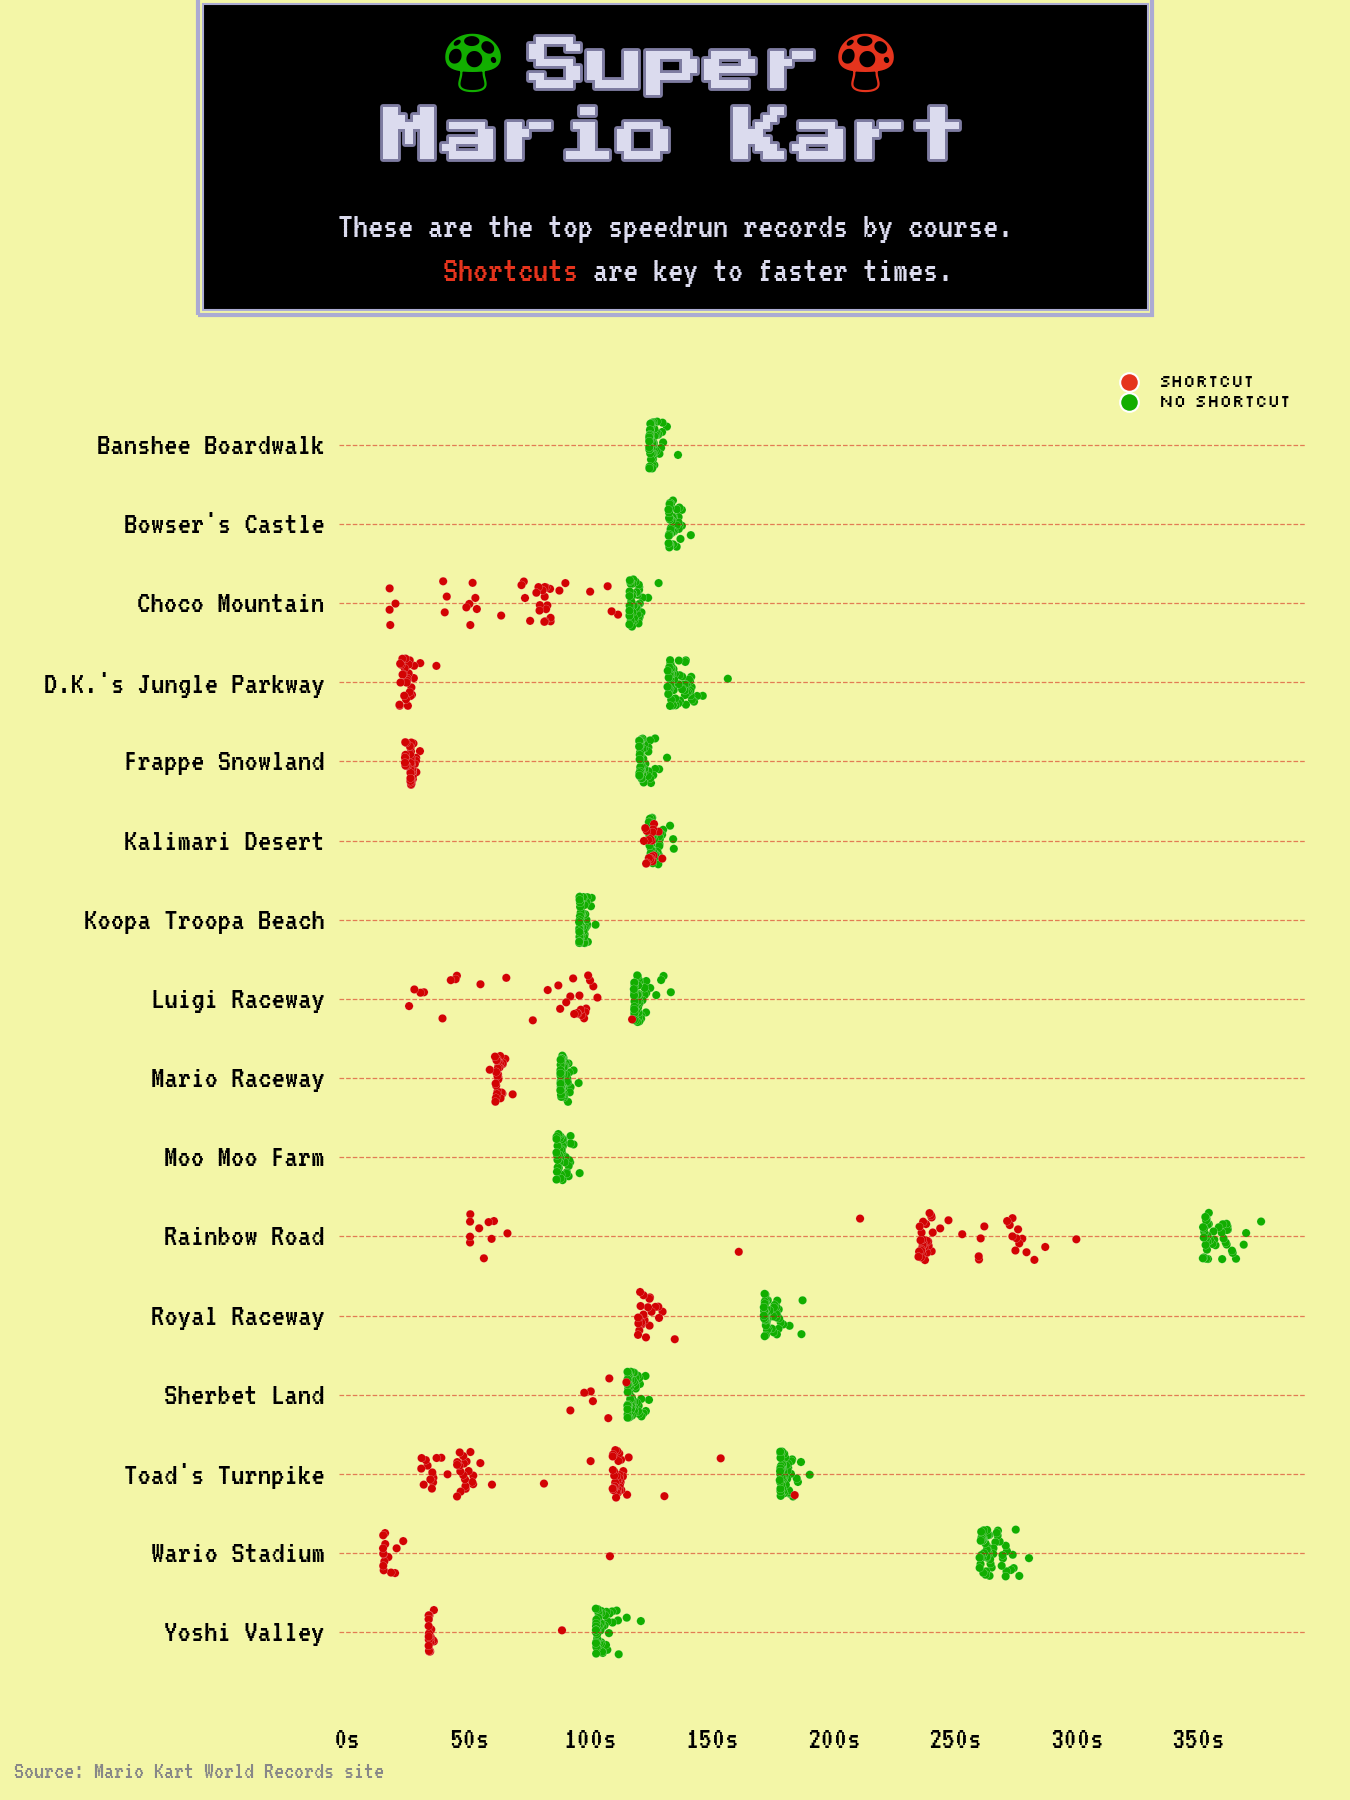
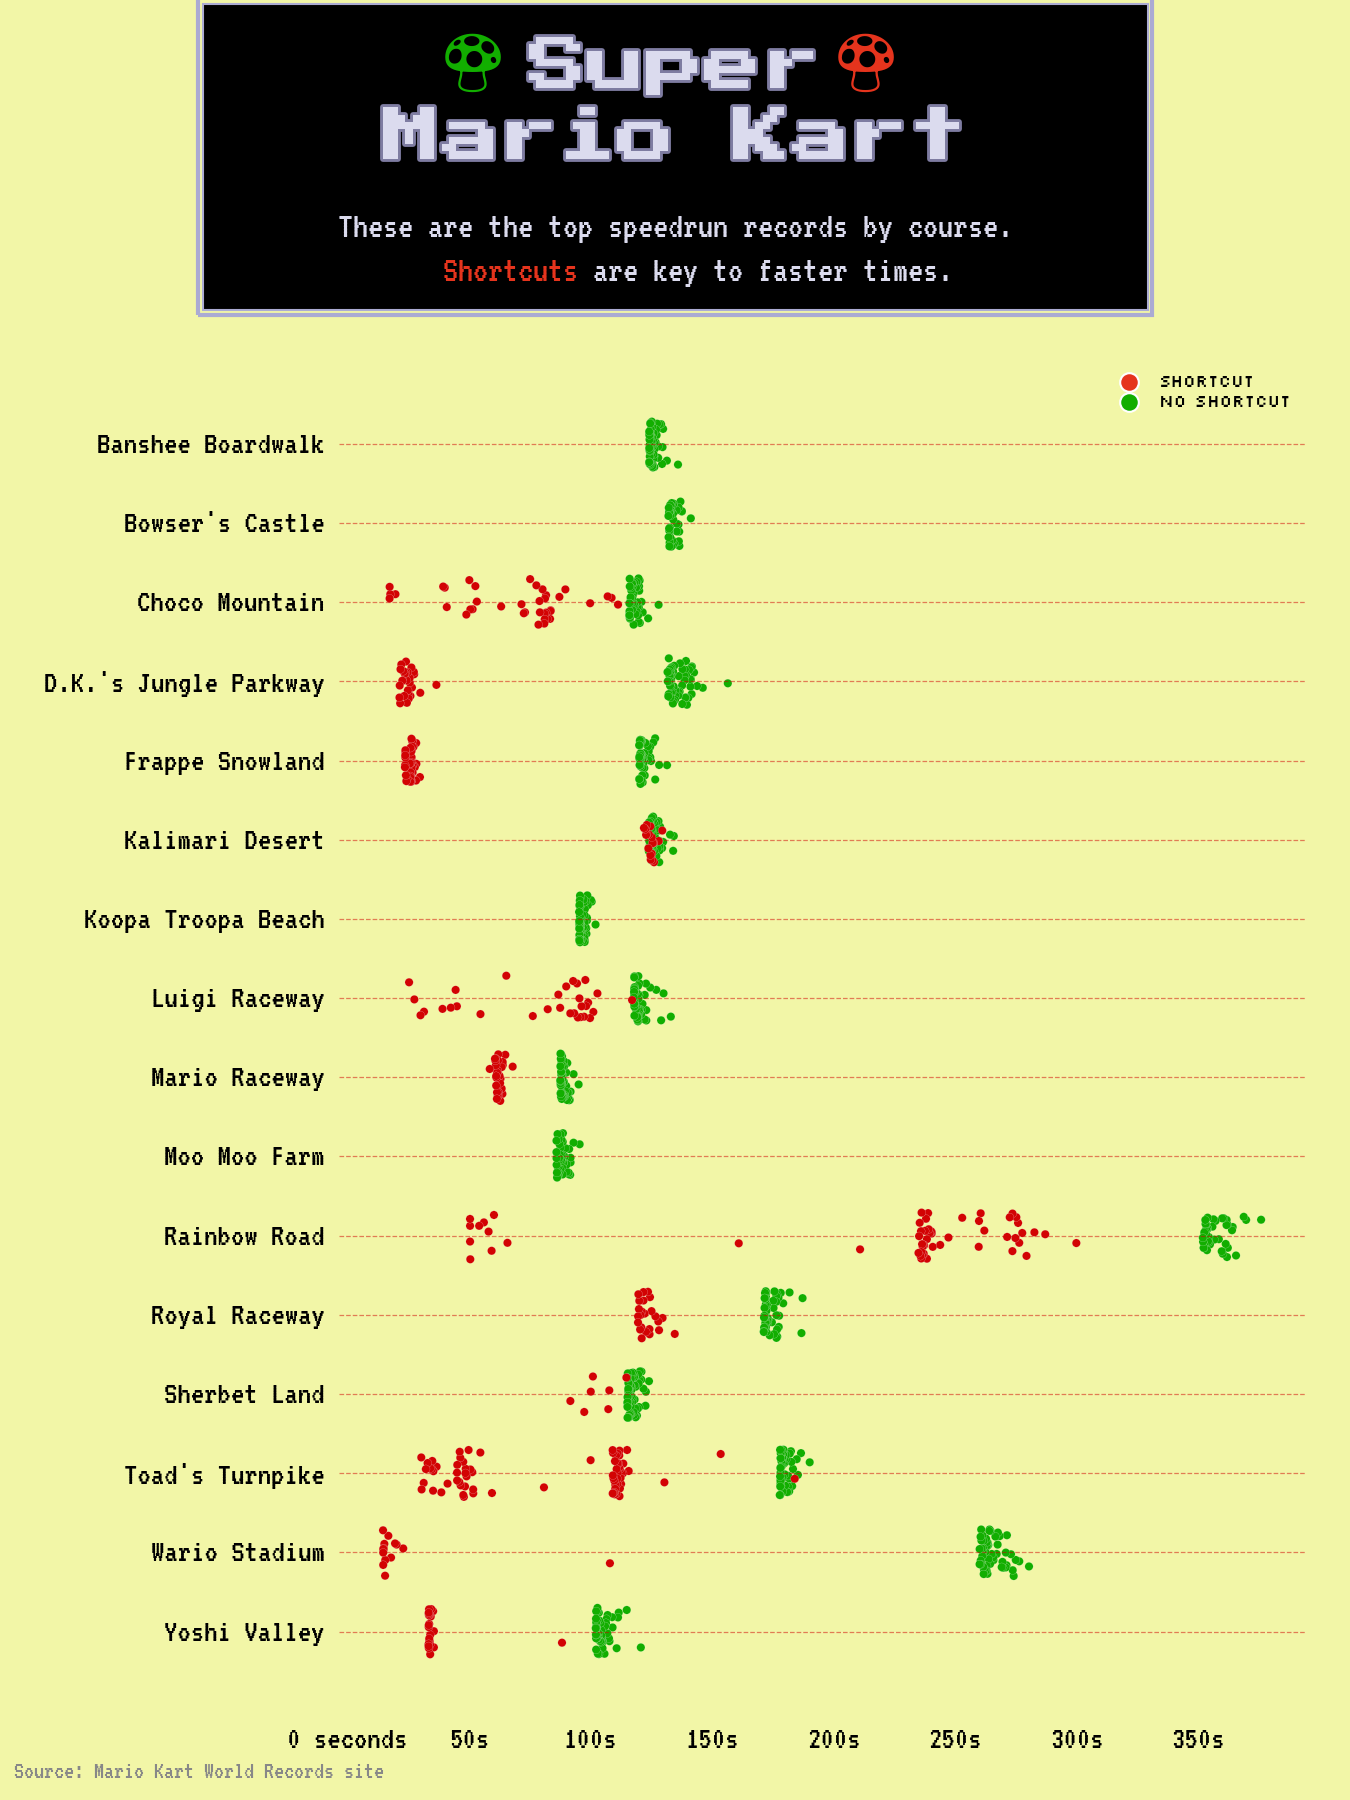
Initial Commit

diff --git a/code/mario_kart_01.py b/code/mario_kart_01.py
@@ -32,34 +32,12 @@ m = [
 ]
 
 mario_colors = [
-    "#f3f6a7",
+    "#f2f6a7",
     '#E5341D',
     '#12AE00',
     '#FFFFB4',
     "#F7B500",  # yellow amber
     '#D20303',  # traffice light red
-    '#A65332',
-    '#66772D',
-    '#939FAF',
-    "#8EE466",
-    '#CE4C26',
-    '#8A8E7F',
-    '#E9C076',
-    '#8A8E80',
-    '#FAED86',
-    '#B9F973',    
-    '#edeada',
-    '#100f24',
-    '#5d8d60',
-    '#c74634',
-    '#e55d82',    
-    "#89b7d6",
-    '#e8bd00',
-    '#7b6500',
-    '#dd2020', 
-    '#fad2a8',
-    '#B1F382',  
-    '#9C5335'
 ]
 
 def jitter(df, col, amount=0.30):
@@ -112,7 +90,7 @@ ax.tick_params(axis='y', length=0)
 ax.tick_params(labelsize=6)
 ax.set_yticklabels(tracks, fontproperties=ft_VT323, fontsize=8)
 
-time_label = ['0s', '50s', '100s', '150s', '200s', '250s', '300s', '350s']
+time_label = ['0 seconds', '50s', '100s', '150s', '200s', '250s', '300s', '350s']
 ax.set_xticks(np.arange(8)*50)
 ax.set_xticklabels(time_label, fontproperties=ft_VT323, fontsize=8)
 ax.tick_params(axis='x', length=0)
